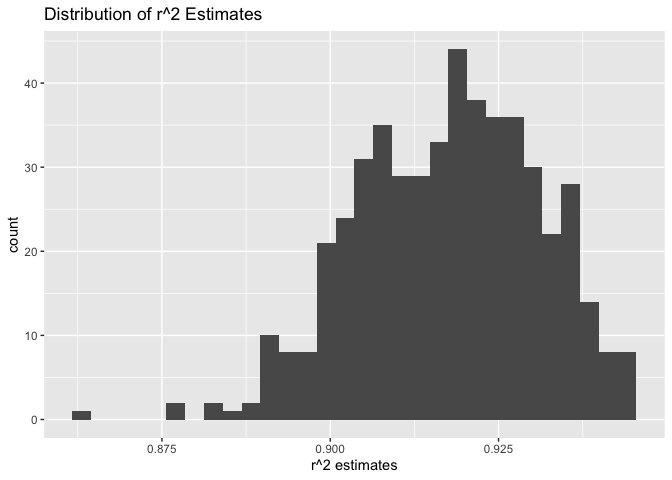
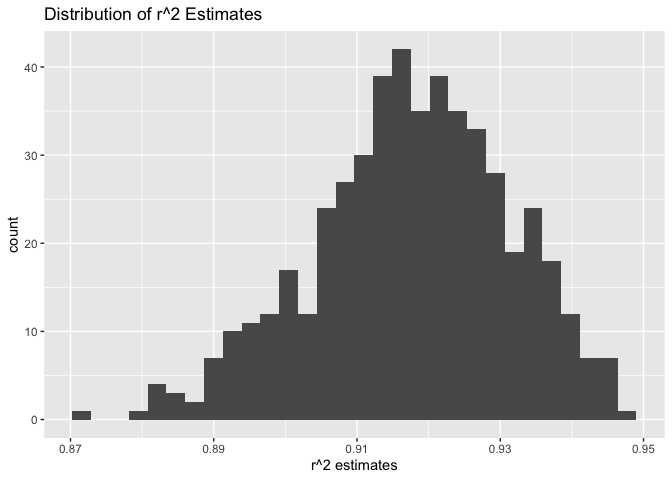
typo solved

diff --git a/p8105_hw6_hc3451.md b/p8105_hw6_hc3451.md
@@ -1,7 +1,7 @@
 Data Science I Homework 6
 ================
 Huanyu Chen
-2023-11-27
+2023-11-28
 
 # Problem 1
 
@@ -47,8 +47,7 @@ result = weather_df |>
     beta_1 = tmin,
     beta_2 = prcp) |>
   summarise(r_squared = r.squared,
-            log_beta1_2 = log(beta_1*beta_2),
-            log_beta0_1 = log(beta_0*beta_1))
+            log_beta1_2 = log(beta_1*beta_2))
 ```
 
     ## Warning: `unnest()` has a new interface. See `?unnest` for details.
@@ -72,15 +71,15 @@ result = weather_df |>
 head(result)
 ```
 
-    ## # A tibble: 6 × 3
-    ##   r_squared log_beta1_2 log_beta0_1
-    ##       <dbl>       <dbl>       <dbl>
-    ## 1     0.900       -4.97        2.06
-    ## 2     0.935      NaN           2.08
-    ## 3     0.909      NaN           2.10
-    ## 4     0.925      NaN           2.11
-    ## 5     0.898       -4.85        2.08
-    ## 6     0.918      NaN           2.12
+    ## # A tibble: 6 × 2
+    ##   r_squared log_beta1_2
+    ##       <dbl>       <dbl>
+    ## 1     0.921      NaN   
+    ## 2     0.902       -5.96
+    ## 3     0.911      NaN   
+    ## 4     0.926      NaN   
+    ## 5     0.931      NaN   
+    ## 6     0.940      NaN
 
 ## Plot Distributions: r^2
 
@@ -111,7 +110,7 @@ result |>
 
     ## `stat_bin()` using `bins = 30`. Pick better value with `binwidth`.
 
-    ## Warning: Removed 342 rows containing non-finite values (`stat_bin()`).
+    ## Warning: Removed 348 rows containing non-finite values (`stat_bin()`).
 
 ![](p8105_hw6_hc3451_files/figure-gfm/unnamed-chunk-6-1.png)<!-- -->
 
@@ -127,15 +126,15 @@ r2_ci
 ```
 
     ##      2.5%     97.5% 
-    ## 0.8910332 0.9404901
+    ## 0.8888377 0.9421016
 
 ``` r
-log_beta01_ci = quantile(pull(result, log_beta0_1),
-                         probs = c(0.025,0.975))
-log_beta01_ci
+log_beta12_ci = quantile(pull(result, log_beta1_2),
+                         probs = c(0.025,0.975), na.rm = TRUE)
+log_beta12_ci
 ```
 
-    ##     2.5%    97.5% 
-    ## 2.055163 2.135699
+    ##      2.5%     97.5% 
+    ## -9.001683 -4.578877
 
 # Problem 3
